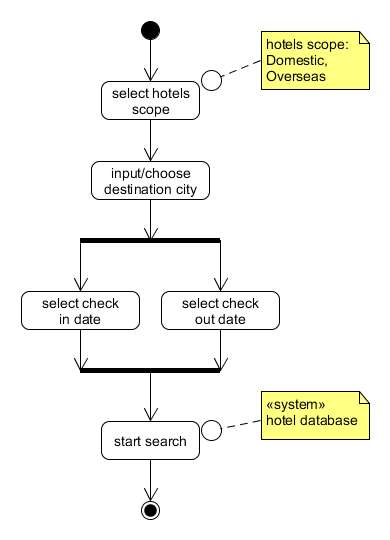
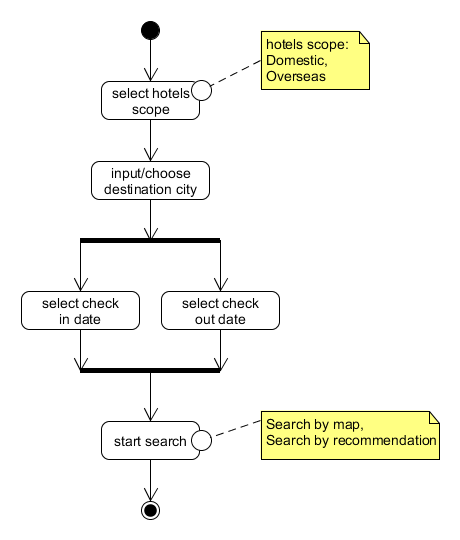
Correct some mistake

diff --git a/_posts/2018-04-22-course-assignment-4.md b/_posts/2018-04-22-course-assignment-4.md
@@ -12,7 +12,7 @@ tags: 博客
 
 ### a. 阅读Asg_RH文档，绘制用例图。按Task1要求，请使用工具UMLet，截图格式务必是png并控制尺寸
 
-　　如下UML图，其中关于外部系统"hotel database"的使用其实与"search hotels"以及"choose hotel"两个用例均有关，但在Use case上只是与一些具体子用例相关联：
+　　如下UML图：
 
 ![task 1 uml](/assets/2018-04-22-course-assignment-4-diagram/task-1-reserve-hotel-uml.png)
 
@@ -68,12 +68,12 @@ tags: 博客
 
 1. 两个产品用例图的主要用例是一致的，比如两者均包含预订酒店用例，同时该用例的子用例也是相同，有搜索酒店、选择酒店、选择房间和确认订单，还有支付用例等等，因为这些均是在线预订酒店平台所必须具备的基本功能。
 2. 上述提到的基本用例的扩展点是类似的，比如两者的选择酒店用例的扩展点都有搜索酒店，就是允许客户在选择酒店时重新搜索酒店；选择酒店时也同样可以选择进行酒店排序。
-3. 主要的外部系统是相同的，比如都有酒店数据库以及信用卡支付系统的支持。
+3. 主要的外部系统是相同的，比如都有基本的网上信用卡支付系统的支持。
 
 　　两者的不同点在于：
 
 1. 新时代的去哪儿预订酒店产品的基本用例更加简单，比如搜索酒店用例，只需要选择目的地、入住和退房时间，并不需要亲自输入目的地或者选择输入留宿天数；在提供预订房间数量的时候，也不需要过多地说明旅客人数和是否是成人或者小孩；同时，在未登录状态下，支付阶段也不需要额外进行添加购物车流程。
-2. 两者的某些用例的子用例并不完全相同，即相同业务的流程不一样，比如旧系统的在选择房间类型时就需确定房间数量，而新系统这个子用例被设置成确定订单的子用例；取消订单的流程也从在购物车中取消改成在确认订单过程中就可取消，对用户更加友好。另外，同样用例的注释内容也不完全相同。
+2. 两者的某些用例的具体场景并不完全相同，即相同业务的流程不一样，比如旧系统的在选择房间类型时就需确定房间数量，而新系统将这一步骤设置成确定订单的一步；取消订单的流程也从在购物车中取消改成在确认订单过程中就可取消，对用户更加友好。另外，同样用例的注释内容也不完全相同。
 3. 新系统的在每个基本用例上都添加了创新用例，比如搜索酒店中新增了境内境外酒店选择、地图搜索、高级搜索、酒店推荐等等，选择酒店新增了筛选条件选择，选择房间类型新增了用户评论、酒店交通和设施介绍，确定订单中新增了打印订单，支付的方式也明显增加。
 4. 新系统的外部系统支持更多，同时还有和同类竞争者合作。
 
@@ -96,7 +96,7 @@ tags: 博客
 
 ### a. 在（任务b）基础上，用活动图建模找酒店用例。简述利用流程图发现子用例的方法。
 
-　　如下所示，即是去哪儿网站中预订酒店平台的找酒店用例的活动图建模。需要注意的是，该活动图只是选取了主要的业务流程，并没有包括有其他拓展业务。可以知道的是，通过分析流程图中的重要操作能够获取子用例。比如，该找酒店用例，就有选择酒店范围、输入目的地、选择入住时间以及退房时间的操作，对比用例图，能够发现这些操作就是找酒店用例的子用例。
+　　如下所示，即是去哪儿网站中预订酒店平台的找酒店用例的活动图建模。需要注意的是，该活动图只是选取了主要的业务流程。可以知道的是，通过分析流程图中的重要操作能够获取子用例，尤其是需要实现额外功能的操作。比如，该找酒店用例，就有选择酒店范围以及以某种搜索方式搜索酒店这两个操作需要再进行扩展设计的，对比用例图，能够发现这些操作就是找酒店用例的子用例，而且是创新用例。
 
 ![search hotels uml activity](/assets/2018-04-22-course-assignment-4-diagram/search-hotels.png)
 
